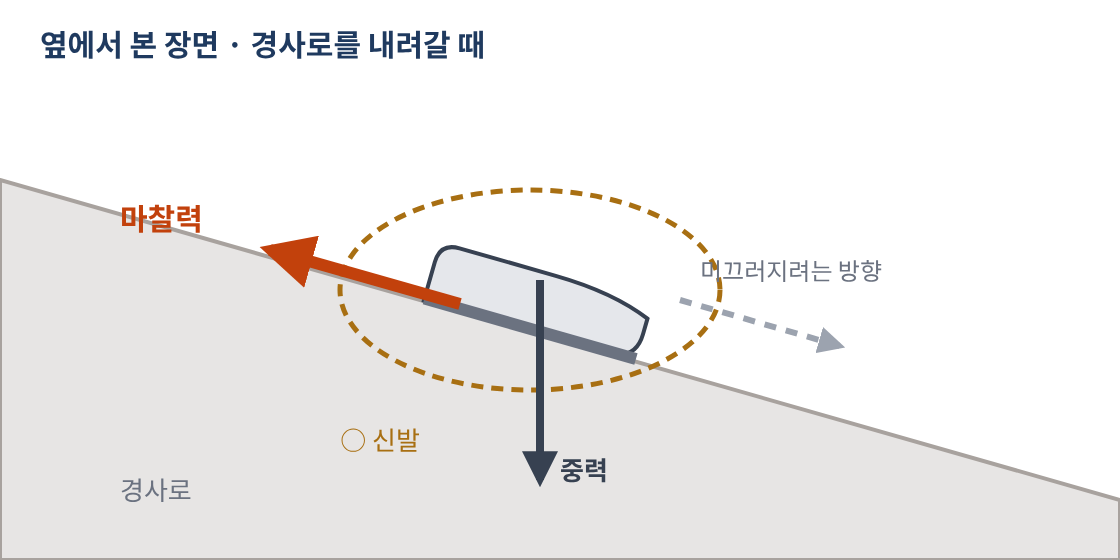
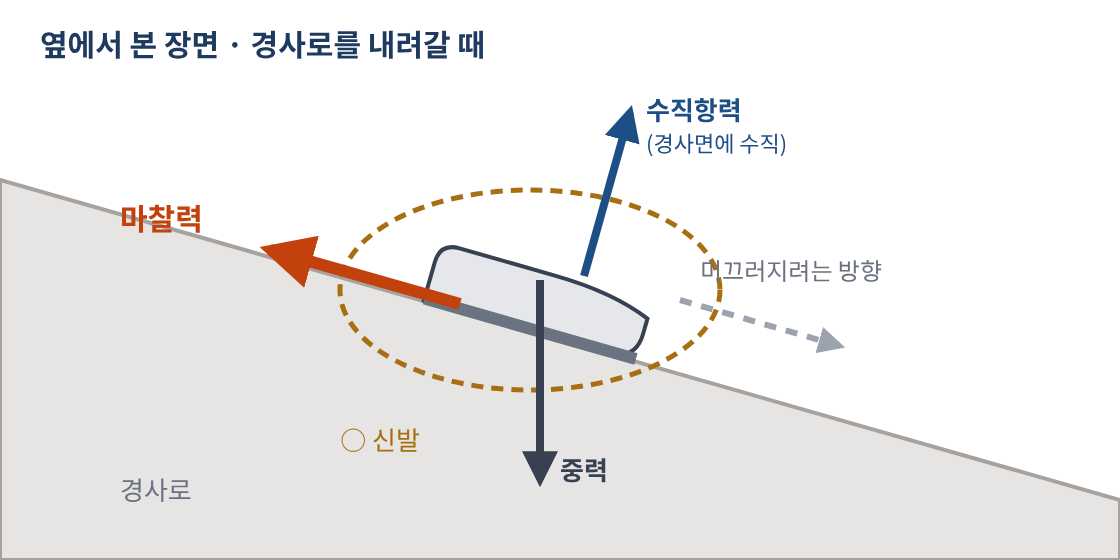
힘 그리기 훈련: ⑨ 걸을 때 신발(뒤꿈치·발바닥·앞꿈치) 장면 추가, 바닥·계단·경사로 수직항력은 '더 찾으면 좋은 힘'으로 정리
Claude-Session: https://claude.ai/code/session_01LcanaCrm3G7zJAki5YaGRR

Changed region(s): [[0.5312, 0.1518, 0.7188, 0.425], [0.5, 0.425, 0.5312, 0.4857]]

diff --git a/index.html b/index.html
@@ -1306,7 +1306,7 @@
         </div>
         <div class="tool">
           <h3>🎯 힘 그리기 훈련소</h3>
-          <div class="d">장면 8개와 도전 1개. 힘을 받는 물체에 ○를 치고, 화살표를 그리고, 이름을 붙여 보세요. 다 그린 뒤에 정답을 확인할 수 있어요.</div>
+          <div class="d">장면 9개와 도전 1개. 힘을 받는 물체에 ○를 치고, 화살표를 그리고, 이름을 붙여 보세요. 다 그린 뒤에 정답을 확인할 수 있어요.</div>
           <button class="go" type="button" onclick="trnOpen()">훈련 시작 →</button>
         </div>
       </div>
@@ -5623,7 +5623,7 @@ function drawTrn(){
       if(x&&x.d){ var d=x.d;
         ans=TRK==='cmp'?('㉡='+esc(d.ratio)+'배 · '+esc(d.sl||'')+' · '+esc(d.why||'')):
           ('<b>'+esc(d.obj||'')+'</b> — '+(d.a||[]).map(function(q,i){return (i+1)+'. '+esc(q[5]?q[5]+' ':'')+esc(q[4]||'');}).join(' / ')); }
-      h+='<tr style="border-bottom:1px solid #eef2f7"><td style="white-space:nowrap;padding:5px 4px">'+esc(m.num)+'번 '+esc(m.name)+'</td><td style="white-space:nowrap;color:#6b7280">'+done+'/9</td><td>'+ans+'</td></tr>';
+      h+='<tr style="border-bottom:1px solid #eef2f7"><td style="white-space:nowrap;padding:5px 4px">'+esc(m.num)+'번 '+esc(m.name)+'</td><td style="white-space:nowrap;color:#6b7280">'+done+'/'+TRN.length+'</td><td>'+ans+'</td></tr>';
     });
   });
   h+='</table>';
@@ -6470,12 +6470,12 @@ function drawStats(items){
 
 /* ===== 힘 그리기 훈련소 ===== */
 var TRN=[
- {k:'floor',t:'바닥을 딛는 신발',h:'발을 디딜 때 신발은 어느 쪽으로 미끄러지려 할까요?',n:3,
-  a:'힘을 받는 물체: <b>신발</b><br><b>바닥의 마찰력</b>(미끄러지려는 쪽의 반대 = 뒤쪽), <b>지구의 중력</b>(아래), <b>바닥의 수직항력</b>(위, 바닥이 떠받치는 힘)'},
- {k:'stair',t:'계단을 내려가는 신발',h:'계단 끝을 디딜 때 신발은 어느 쪽으로 미끄러지려 할까요?',n:2,
-  a:'힘을 받는 물체: <b>신발</b><br><b>계단의 마찰력</b>(미끄러지려는 쪽의 반대), <b>지구의 중력</b>(아래)'},
- {k:'slope',t:'경사로를 내려가는 신발',h:'중력은 경사면을 따라가지 않아요. 언제나 어느 쪽일까요?',n:2,
-  a:'힘을 받는 물체: <b>신발</b><br><b>경사로의 마찰력</b>(경사 위쪽), <b>지구의 중력</b>(바로 아래 — 경사면에 비스듬히 그리지 않기)'},
+ {k:'floor',t:'바닥을 딛는 신발',h:'발을 디딜 때 신발은 어느 쪽으로 미끄러지려 할까요?',n:2,x:1,
+  a:'힘을 받는 물체: <b>신발</b><br><b>바닥의 마찰력</b>(미끄러지려는 쪽의 반대 = 뒤쪽), <b>지구의 중력</b>(아래)<br>더 찾았다면 👍 <b>바닥의 수직항력</b>(위, 바닥이 신발을 떠받치는 힘)'},
+ {k:'stair',t:'계단을 내려가는 신발',h:'계단 끝을 디딜 때 신발은 어느 쪽으로 미끄러지려 할까요?',n:2,x:1,
+  a:'힘을 받는 물체: <b>신발</b><br><b>계단의 마찰력</b>(미끄러지려는 쪽의 반대), <b>지구의 중력</b>(아래)<br>더 찾았다면 👍 <b>계단의 수직항력</b>(위)'},
+ {k:'slope',t:'경사로를 내려가는 신발',h:'중력은 경사면을 따라가지 않아요. 언제나 어느 쪽일까요?',n:2,x:1,
+  a:'힘을 받는 물체: <b>신발</b><br><b>경사로의 마찰력</b>(경사 위쪽), <b>지구의 중력</b>(바로 아래 — 경사면에 비스듬히 그리지 않기)<br>더 찾았다면 👍 <b>경사로의 수직항력</b> — 바로 위가 아니라 <b>경사면에 수직</b>(비스듬히 위)이에요.'},
  {k:'pad',t:'골대 패드에 부딪힌 몸',h:'눌린 패드는 원래 모양으로 돌아가려고 해요.',n:1,
   a:'힘을 받는 물체: <b>몸</b><br><b>패드의 탄성력</b>(부딪힌 방향의 반대)'},
  {k:'net',t:'네트에 부딪힌 공',h:'공에 눌려 늘어난 네트는 어떻게 하려고 할까요?',n:1,
@@ -6486,6 +6486,8 @@ var TRN=[
   a:'힘을 받는 물체: <b>손가락</b><br><b>완충재의 탄성력</b>(문틀 쪽), <b>문틀이 반대로 미는 힘</b>'},
  {k:'roof',t:'눈이 한쪽에 쌓인 지붕',h:'지붕은 <b>아래로</b> 당겨지고, 기둥이 <b>위로</b> 떠받쳐요. 어느 기둥이 더 힘들까요?',n:3,obj:'지붕',
   a:'힘을 받는 물체: <b>지붕</b><br><b>지구의 중력</b>(아래), <b>기둥 1·기둥 2가 떠받치는 힘</b>(위). 눈이 쌓인 쪽 기둥의 화살표가 더 길어요.'},
+ {k:'walk',t:'걸을 때 신발',h:'한 걸음을 세 순간으로 나눴어요. 순간마다 <b>바닥이 신발에 주는 마찰력</b>을 그려 보세요. 마찰력이 거의 없다고 생각되는 순간은 그리지 않아도 돼요.',n:2,obj:'신발',
+  a:'① 뒤꿈치가 닿을 때: 발이 <b>앞으로</b> 미끄러지려 함 → <b>바닥의 마찰력은 뒤쪽</b> (브레이크)<br>② 발바닥 전체가 닿을 때: 거의 미끄러지려 하지 않음 → 마찰력 거의 없음<br>③ 앞꿈치로 찰 때: 발이 바닥을 뒤로 밀어 <b>뒤로</b> 미끄러지려 함 → <b>바닥의 마찰력은 앞쪽</b> (몸을 앞으로 밀어 줌)<br>🤔 사람은 앞으로 가는데 ③의 마찰력도 앞쪽! 마찰력은 몸이 가는 방향이 아니라 <b>발이 미끄러지려는 쪽의 반대</b>예요.<br>젖은 바닥에서 엉덩방아는 대개 ①에서, 빙판에서 헛발질은 ③에서 일어나요.'},
  {k:'cmp',t:'도전! 비교 화살표',h:'같은 블록을 두 바닥에서 끌었어요. ㉠ 평균 <b>2.0 N</b>, ㉡ 평균 <b>3.0 N</b>.<br>㉠ 마찰력 화살표가 그려져 있어요. ㉡ 마찰력 화살표를 알맞은 길이로 그려 보세요.'}
 ];
 var TRN_TYPES=['마찰력','탄성력','중력','수직항력','미는 힘','떠받치는 힘'];
@@ -6517,7 +6519,7 @@ function trnGo(i){
   trnI=i; trnNav(); var s=TRN[i], bd=$('trnBd'); bd.scrollTop=0;
   if(s.k==='cmp'){ trnCmp(s); return; }
   var st=trnSt(s.k); if(s.obj) st.obj=s.obj;
-  bd.innerHTML='<h3>'+(i+1)+'. '+s.t+'</h3><div class="hint">'+s.h+' <br>그릴 힘: <b>'+s.n+'개</b></div>'+
+  bd.innerHTML='<h3>'+(i+1)+'. '+s.t+'</h3><div class="hint">'+s.h+' <br>꼭 그릴 힘: <b>'+s.n+'개</b>'+(s.x?' (더 찾을 수 있으면 더 그려도 좋아요)':'')+'</div>'+
     '<div class="tb"><button data-m="obj">○ 물체 표시</button><button data-m="arr">↗ 화살표 그리기</button>'+
     '<button id="trnUndo">↶ 되돌리기</button><button id="trnClr">지우기</button></div>'+
     '<div class="fig"><img src="train/b_'+s.k+'.png" alt="'+s.t+'"><canvas id="trnCv"></canvas></div>'+
@@ -6600,7 +6602,7 @@ function trnShowAns(s){
   var st=trnSt(s.k), mine=st.a.map(function(r,i){return (i+1)+'. '+(r.w?r.w+' ':'')+r.t;}).join(' · ');
   $('trnAns').innerHTML='<div class="ans"><b>✅ 정답과 비교해 보세요</b><img src="train/a_'+s.k+'.png" alt="정답 그림"><p>'+s.a+'</p>'+
     '<p style="color:#cfe9d8">내 답: '+(st.obj||'')+' — '+(mine||'')+'</p>'+
-    '<ul><li>화살표가 <b>물체에서</b> 시작했나요?</li><li>방향이 맞나요? (마찰력은 미끄러지려는 쪽의 반대)</li><li>이름에 <b>누가 미는 힘인지</b> 넣었나요?</li>'+(st.a.length<s.n?'<li>빠진 힘이 있어요. 정답에는 '+s.n+'개!</li>':'')+'</ul></div>'+
+    '<ul><li>화살표가 <b>물체에서</b> 시작했나요?</li><li>방향이 맞나요? (마찰력은 미끄러지려는 쪽의 반대)</li><li>이름에 <b>누가 미는 힘인지</b> 넣었나요?</li>'+(st.a.length<s.n?'<li>빠진 힘이 있어요. 꼭 그릴 힘은 '+s.n+'개!</li>':'')+'</ul></div>'+
     (trnI<TRN.length-1?'<button class="nx" onclick="trnGo('+(trnI+1)+')">다음 장면 →</button>':'');
 }
 function trnCmp(s){
